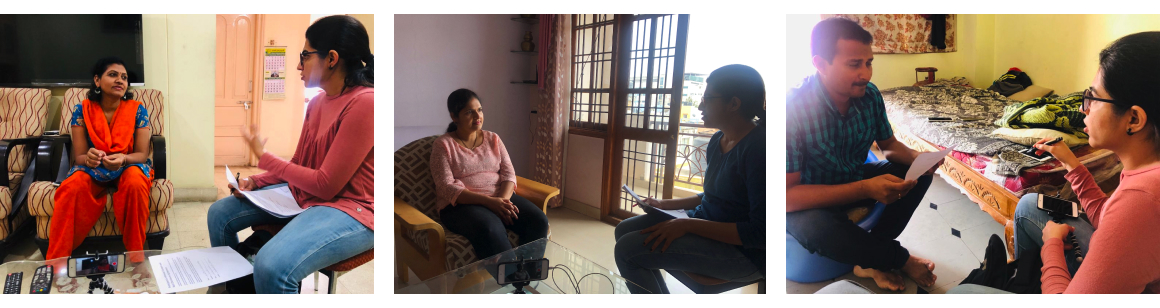
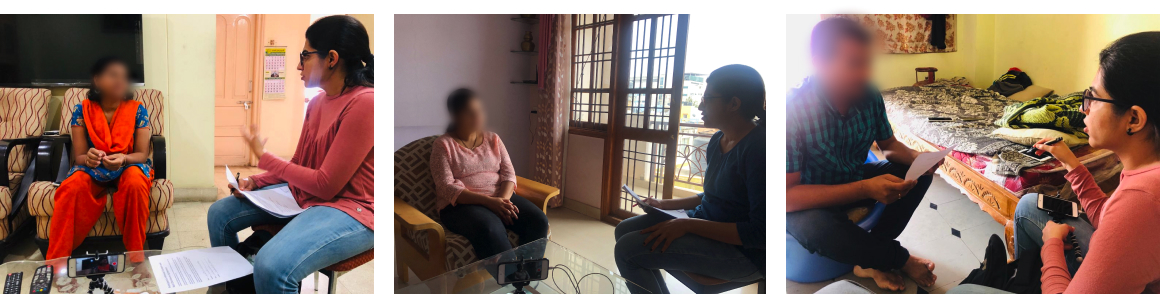
cosmetic blur

diff --git a/about-me-stylesheet.css b/about-me-stylesheet.css
@@ -90,7 +90,7 @@ hr{
 }
 
 .header-name {
-	font-size: 1.5rem;
+	font-size: 1.75rem;
 	line-height: 1.75rem;
 	margin: 2rem 0;
 	font-family: 'Dancing Script', cursive;

diff --git a/index-stylesheet.css b/index-stylesheet.css
@@ -86,7 +86,7 @@ hr{
 }
 
 .header-name {
-	font-size: 1.5rem;
+	font-size: 1.75rem;
 	line-height: 1.75rem;
 	margin: 2rem 0;
 	font-family: 'Dancing Script', cursive;
